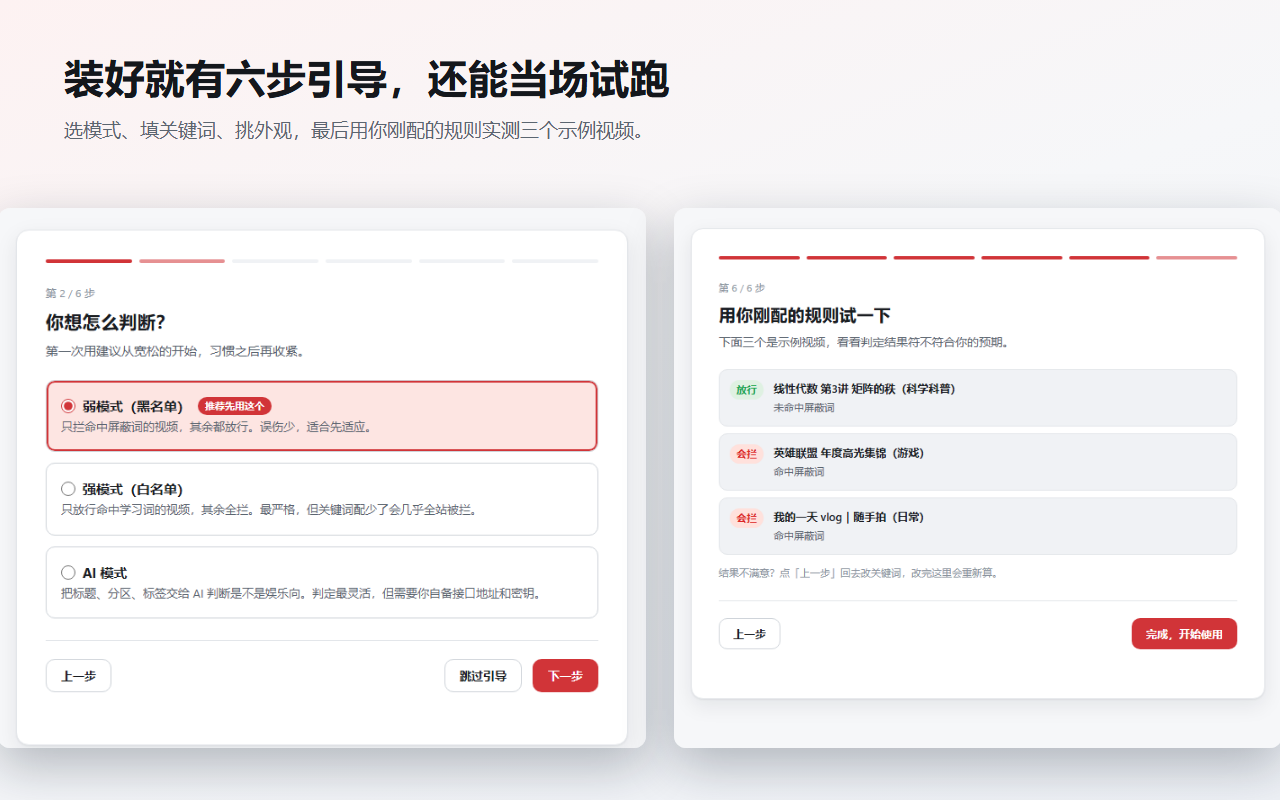
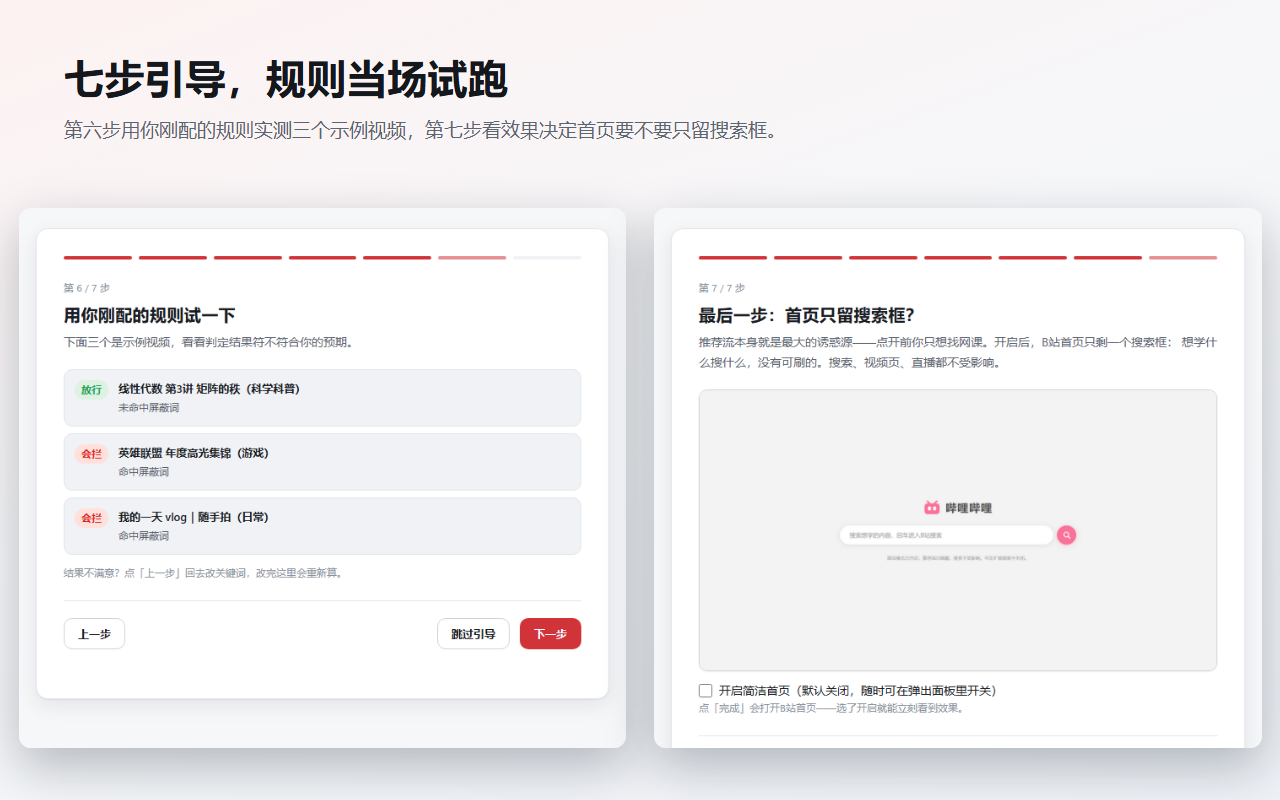
docs: 商店截图更新为 2.3.0——七步引导与简洁首页
- 新增 screenshot-7：亮/暗两版简洁首页真实截图错位叠放，
  文案「刷无可刷：首页只剩一个搜索框」
- screenshot-6 改为七步引导（试跑 + 简洁首页选择步）
- README 更多截图一节同步收录第 7 张

diff --git a/README.md b/README.md
@@ -129,8 +129,11 @@
 **专注密码锁与时段策略**
 <img src="preview/screenshot-5-lock.png" alt="密码锁">
 
-**首装引导，最后一步实地试跑**
+**首装引导：规则当场试跑，看效果选首页形态**
 <img src="preview/screenshot-6-onboarding.png" alt="引导流程">
+
+**简洁首页：刷无可刷，亮色暗色同样清爽**
+<img src="preview/screenshot-7-simple-home.png" alt="简洁首页">
 
 </details>
 
